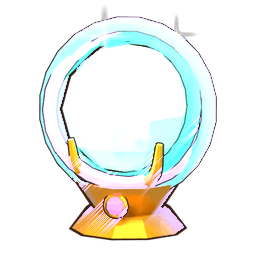
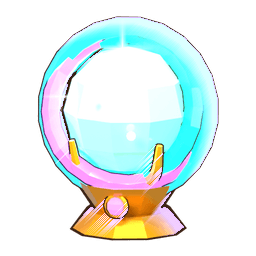
art(relic): 산의 심장 바위를 무광 짙은 갈색으로 · 이끼 토템 굵게 · 오로라 고리 진하게
- 산의 심장이 선명 모드에서 베이지로 뜬 원인은 유광 코팅: 각진 평면 바위는 면 전체가 면광원을 통째로 반사했다. m(..., matte=True) 로 거친 바위만 코팅을 뺐다
- 바위에 붙은 발광 금맥은 빛나기만 하고 면을 비추지 않게(visible_diffuse · glossy 끔)
- 이끼 토템은 기둥 · 얼굴 · 이끼 · 띠를 넓혀 칸 안에서 작지 않게, 오로라 구슬은 구슬 톤을 낮추고 고리를 굵고 진하게

diff --git a/art-gen/blender/relic_icons.py b/art-gen/blender/relic_icons.py
@@ -34,12 +34,13 @@ def _vivid_hex(c):
     return '#%02x%02x%02x' % (round(r * 255), round(g * 255), round(b * 255))
 
 
-def m(name, color, rough=0.75, metal=0.0, emit=None, es=0.0):
+def m(name, color, rough=0.75, metal=0.0, emit=None, es=0.0, matte=False):
+    """matte — 선명 모드에서도 유광 코팅을 입히지 않는다. 각진 평면 바위는 면 전체가 면광원을 통째로 반사해 짙은 갈색이 크림색으로 떴다(산의 심장)"""
     if VIVID and isinstance(color, str):
         color = _vivid_hex(color)
         emit = _vivid_hex(emit) if isinstance(emit, str) else emit
         es = es * (2.0 + 0.6 * (VIVID_K - 1))
-        return C.principled(f'relicV_{name}_{color}_{metal}_{es}', color, rough=rough * 0.78, metal=metal, coat=0.35, emit=emit, emit_strength=es)
+        return C.principled(f'relicV_{name}_{color}_{metal}_{es}{"_m" if matte else ""}', color, rough=rough if matte else rough * 0.78, metal=metal, coat=0.0 if matte else 0.35, emit=emit, emit_strength=es)
     return C.principled(f'relic_{name}_{color}_{metal}_{es}', color, rough=rough, metal=metal, coat=0.0, emit=emit, emit_strength=es)
 
 
@@ -1025,35 +1026,36 @@ def r_tempest_eye(_):
 
 # ── 대지 ──
 def r_mossy_totem(_):
-    ob('pole', C.tube([Vector((0, 0, -0.75)), Vector((0, 0, 0.5))], 0.22, seg=8), m('wood', '#9a7a52'))
+    ob('pole', C.tube([Vector((0, 0, -0.75)), Vector((0, 0, 0.5))], 0.3, seg=8), m('wood', '#9a7a52'))
     for z in (-0.35, 0.15):
-        ob(f'face{z}', C.box(Vector((0, -0.2, z)), (0.3, 0.06, 0.22)), m('face', WOOD_D), O * 0.6)
+        ob(f'face{z}', C.box(Vector((0, -0.28, z)), (0.42, 0.06, 0.26)), m('face', WOOD_D), O * 0.6)
         for sx in (-1, 1):
-            ob(f'eye{z}{sx}', C.ellipsoid(Vector((sx * 0.08, -0.24, z + 0.04)), (0.035, 0.02, 0.035)), glow('#7cd06a', 0.8), 0)
-    ob('moss', C.ellipsoid(Vector((0, 0, 0.52)), (0.28, 0.28, 0.12)), m('moss', LEAF))
+            ob(f'eye{z}{sx}', C.ellipsoid(Vector((sx * 0.11, -0.32, z + 0.04)), (0.045, 0.02, 0.045)), glow('#7cd06a', 0.8), 0)
+    ob('moss', C.ellipsoid(Vector((0, 0, 0.52)), (0.36, 0.36, 0.13)), m('moss', LEAF))
     # 5판 — 잎 머리장식 다섯 장, 이마 에메랄드, 금 띠 둘
     for k in range(5):
-        plume(f'lf{k}', Vector((0, 0.06, 0.55)), -56 + 28 * k, 0.26 if k != 2 else 0.3, 0.075, ('#4f9a30', '#7cd06a', '#9be86a', '#7cd06a', '#4f9a30')[k], y=0.0)
-    jewel('brow', '#5fe08a', Vector((0, -0.25, 0.33)), 0.06)
+        plume(f'lf{k}', Vector((0, 0.06, 0.55)), -60 + 30 * k, 0.28 if k != 2 else 0.32, 0.09, ('#4f9a30', '#7cd06a', '#9be86a', '#7cd06a', '#4f9a30')[k], y=0.0)
+    jewel('brow', '#5fe08a', Vector((0, -0.33, 0.34)), 0.07)
     for z in (-0.6, -0.1):
-        ob(f'band{z}', C.torus(Vector((0, 0, z)), 0.23, 0.03, seg=12, ring=5), metal_m(GOLD))
-        stud(f'bs{z}', Vector((0, -0.25, z)), 0.035)
+        ob(f'band{z}', C.torus(Vector((0, 0, z)), 0.31, 0.035, seg=12, ring=5), metal_m(GOLD))
+        stud(f'bs{z}', Vector((0, -0.33, z)), 0.04)
 
 
 def r_mountain_heart(_):
-    # 베이지 한 면이던 산을 톤이 다른 바위 덩어리(어두운 뒤 봉우리 · 밝은 앞 능선)로 쌓고, 심장은 금 테 큰 루비 · 거기서 뻗는 금맥 · 밑동 초록 결정
+    # 베이지 한 면이던 산을 톤이 다른 바위 덩어리(어두운 뒤 봉우리 · 밝은 앞 능선)로 쌓고(선명 조명이 거친 중간색을 두 배 가까이 밝혀 바탕을 짙은 갈색으로 둔다), 심장은 금 테 큰 루비 · 거기서 뻗는 금맥 · 밑동 초록 결정
     saved = C.FACET
     C.FACET = 6
-    ob('mtnR', C.cone(Vector((0.36, 0.14, -0.3)), 0.4, 0.0, 0.62, seg=5), m('rockD', '#64574f', rough=0.9))
-    ob('mtnL', C.cone(Vector((-0.38, 0.12, -0.34)), 0.36, 0.0, 0.5, seg=5), m('rockD', '#64574f', rough=0.9))
-    ob('mtn', C.cone(Vector((0, 0, -0.1)), 0.6, 0.0, 0.95, seg=5), m('rock', '#94806e', rough=0.9))
-    ob('ridge', C.cone(Vector((0.1, -0.1, 0.0)), 0.3, 0.0, 0.62, seg=4, rot=Euler((0, 0, math.radians(20)))), m('rockL', '#bba78f', rough=0.85), O * 0.6)
+    ob('mtnR', C.cone(Vector((0.36, 0.14, -0.3)), 0.4, 0.0, 0.62, seg=5), m('rockD', '#2f2622', rough=0.9, matte=True))
+    ob('mtnL', C.cone(Vector((-0.38, 0.12, -0.34)), 0.36, 0.0, 0.5, seg=5), m('rockD', '#2f2622', rough=0.9, matte=True))
+    ob('mtn', C.cone(Vector((0, 0, -0.1)), 0.6, 0.0, 0.95, seg=5), m('rock', '#4a3d34', rough=0.9, matte=True))
+    ob('ridge', C.cone(Vector((0.1, -0.1, 0.0)), 0.3, 0.0, 0.62, seg=4, rot=Euler((0, 0, math.radians(20)))), m('rockL', '#66564a', rough=0.85, matte=True), O * 0.6)
     for k, (x, z, h, ang) in enumerate(((-0.4, -0.47, 0.28, -28), (-0.27, -0.5, 0.2, -10), (0.42, -0.48, 0.24, 26))):
         ob(f'cry{k}', C.cone(Vector((x, -0.38, z + h / 2)), 0.065, 0.0, h, seg=5, rot=Euler((0, math.radians(ang), 0))), m('cry', '#5fe08a', rough=0.2, emit='#8fffb0', es=0.6), O * 0.5)
     C.FACET = saved
     ob('snow', C.cone(Vector((0, 0, 0.29)), 0.22, 0.0, 0.2, seg=5), m('snow', '#f4f8ff'), O * 0.5)
     for k, (dx, dz) in enumerate(((-0.24, 0.24), (0.2, 0.3), (-0.3, -0.12), (0.28, -0.16))):
-        ob(f'vein{k}', C.tube([Vector((0, -0.42, -0.2)), Vector((dx * 0.55, -0.4, -0.2 + dz * 0.55)), Vector((dx, -0.36, -0.2 + dz))], [0.022, 0.016, 0.006], seg=4), glow('#ffcf5a', 1.1), 0)
+        v = ob(f'vein{k}', C.tube([Vector((0, -0.42, -0.2)), Vector((dx * 0.55, -0.4, -0.2 + dz * 0.55)), Vector((dx, -0.36, -0.2 + dz))], [0.022, 0.016, 0.006], seg=4), glow('#ffcf5a', 1.1), 0)
+        v.visible_diffuse = v.visible_glossy = False   # 바위에 붙은 발광 줄이 면을 비춰 짙은 바위를 베이지로 밝혔다 — 빛나기만 하고 비추지는 않게
     jewel('heart', '#e0283c', Vector((0, -0.44, -0.2)), 0.15)
 
 
@@ -1144,10 +1146,10 @@ def r_galaxy_pearl(_):
 
 
 def r_aurora_orb(_):
-    ob('orb', C.ellipsoid(Vector((0, 0, 0.12)), (0.42, 0.42, 0.42)), m('glass', '#c8fff0', rough=0.15, emit='#9ff5dc', es=0.35))
+    ob('orb', C.ellipsoid(Vector((0, 0, 0.12)), (0.42, 0.42, 0.42)), m('glass', '#9fe8d8', rough=0.15, emit='#7fe0c8', es=0.25))
     # 5판 — 앞 줄 셋 대신 구슬을 감는 기운 고리 셋, 금 발톱 받침 + 보석
-    for k, (c, rx, rz) in enumerate((('#5eead4', 70, -20), ('#c9a0ff', 60, 25), ('#7fd8ff', 80, 5))):
-        ob(f'band{k}', C.torus(Vector((0, 0, 0.12)), 0.46 + 0.04 * k, 0.045, seg=24, ring=5, rot=Euler((math.radians(rx), math.radians(rz), 0))), glow(c, 1.2), O * 0.4)
+    for k, (c, rx, rz) in enumerate((('#2ee6c0', 70, -20), ('#b07cff', 60, 25), ('#4fc0ff', 80, 5))):
+        ob(f'band{k}', C.torus(Vector((0, 0, 0.12)), 0.46 + 0.04 * k, 0.062, seg=24, ring=5, rot=Euler((math.radians(rx), math.radians(rz), 0))), glow(c, 1.3), O * 0.4)
     ob('stand', C.cone(Vector((0, 0, -0.44)), 0.2, 0.34, 0.2, seg=10), metal_m('#e8b23a'))
     ob('foot', C.cone(Vector((0, 0, -0.6)), 0.36, 0.26, 0.12, seg=10), metal_m(GOLD_D))
     for k in range(4):
